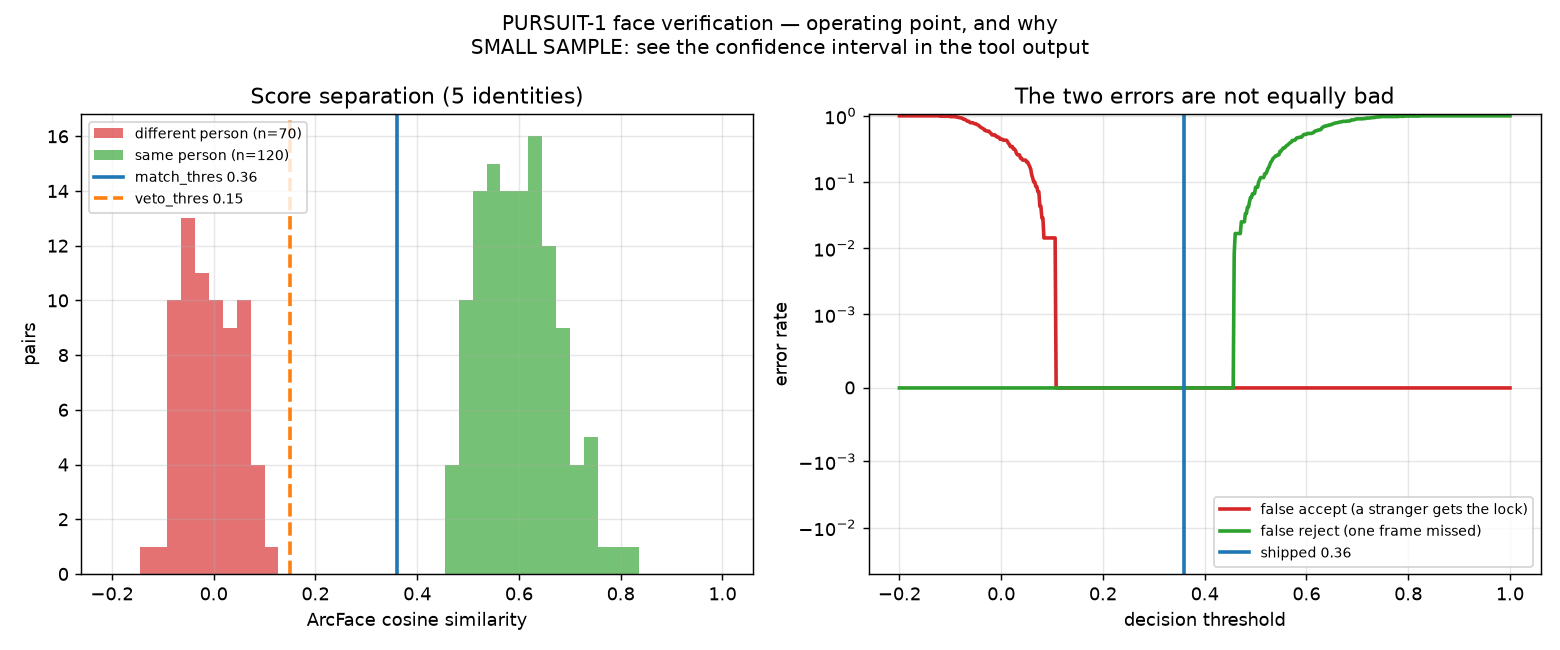
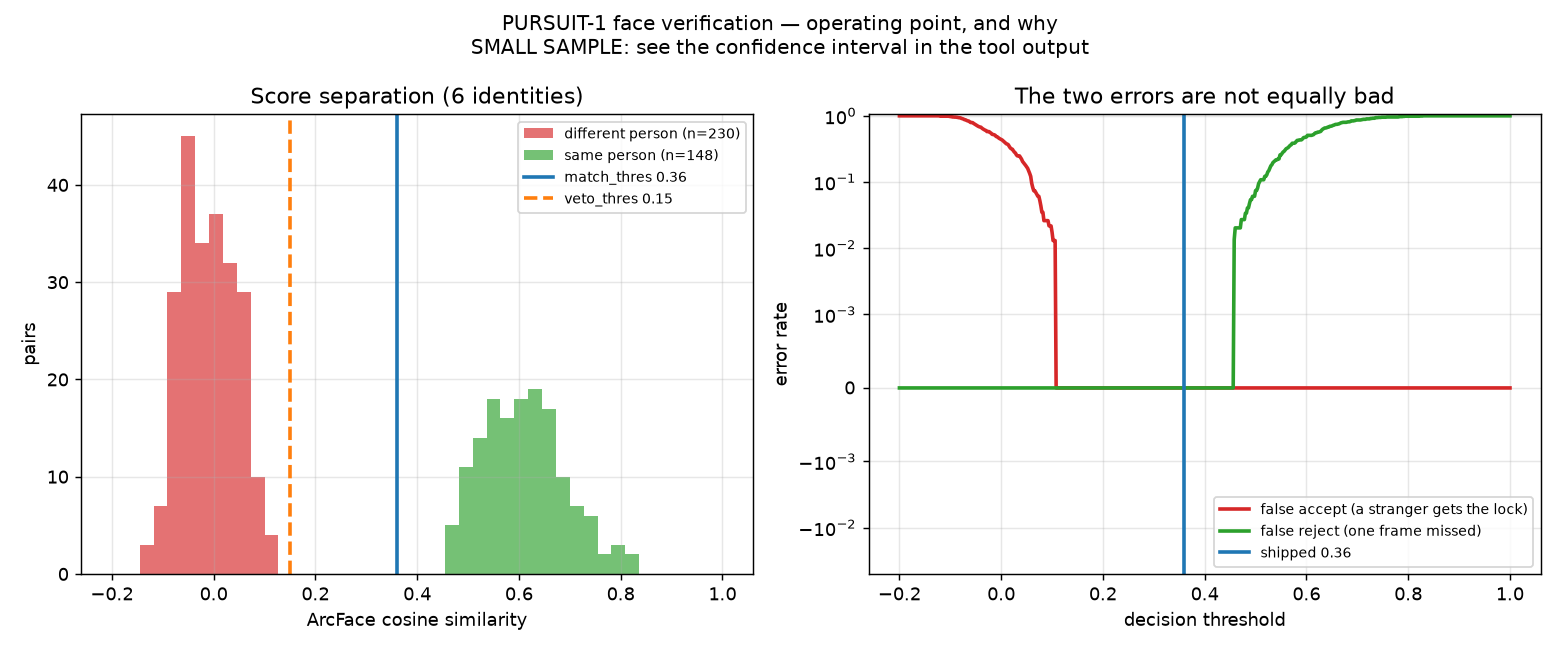
docs: put the ML work and the two-person result in the README
Both were done and neither was findable. All five ML figures existed on disk
and were referenced from nothing; the README still implied the two-person
discrimination test had never been run, which was true that morning.

Adds a machine-learning section with the three figures and the numbers that
matter: the identity-disjoint split and its 16.6-point contrast against an
image split, the head-to-head with pretrained ArcFace on identical pairs, and
the two ablations. Numbers are read from ml/runs/*.json at build time rather
than typed, so the prose cannot drift from the recorded runs.

Records the two-person verification next to the face-veto explanation it
supports: 400 frames, 98% locked, never lost, lock never transferred, face
confidence dipping to 0.73 under occlusion and recovering. Says plainly that
the test had not been run before and that the earlier gallery contained the
same person twice.

Also adds ml/ to the repository layout and the five figures to the media
manifest, with a note that verification_roc.png is the one figure that cannot
be regenerated from a clean clone, because it needs the enrolled gallery and
that is gitignored biometric data.

diff --git a/README.md b/README.md
@@ -138,6 +138,15 @@ within a minute. And a readable face scoring below 0.15 is treated as evidence
 between two people in similar clothing was sustained by appearance alone,
 indefinitely.
 
+**Verified on two real people, 2026-08-10.** 400 frames on a live webcam with a
+second person moving through frame, crossing in front, and remaining after the
+target left: **locked 98%** of frames (391/400, 5 coasting, 4 searching), never
+lost, and the lock never transferred. Face confidence dips to 0.73 during
+occlusion and recovers to 0.95 — body re-ID sustaining exactly as intended.
+That test had never been run until then, and it mattered: the second identity
+previously in the gallery turned out to be the same person as the first, so
+every earlier claim of discrimination had been resting on nothing.
+
 **The wire protocol is generated, not duplicated.** `vision/gen_protocol_header.py`
 emits `firmware/include/pursuit_link.h` from `vision/pursuit/protocol.py`, and CI
 regenerates and diffs it on every push. A cross-language test parses real
@@ -147,6 +156,63 @@ endianness can be right in one direction only, and a CRC computed over a
 different byte range is self-consistent within each language and rejects
 everything across the link. All three of those pass both test suites separately
 and fail on the first flight.
+
+---
+
+## The machine learning, and what it cost to skip it
+
+The identity layer runs ArcFace — 174 MB somebody else trained. That is the
+right call, and it was a call nobody had put a number on. So I trained one from
+scratch on real data and benchmarked both on the same protocol.
+
+**The data is real.** Labeled Faces in the Wild: 4,324
+photographs of 158 people, from news wire images. Not
+synthetic, not augmented from a handful of faces.
+
+**The protocol is the part that matters.** The split is by IDENTITY, not by
+image — 127 people to train on,
+31 held out and never seen. Splitting by image
+instead, which is what a flat `train_test_split` does, leaves the same faces on
+both sides:
+
+| | AUC | accuracy |
+|---|---|---|
+| **held-out identities** | 0.845 | **77.3%** |
+| identities seen in training | 0.984 | 93.9% |
+
+16.6 points of inflation, measured rather than asserted.
+
+![training](docs/media/ml_training.png)
+
+**Against the pretrained model, on identical pairs:** ArcFace scores
+96.4%, mine 77.3%. So
+136x the weights buys
+19 points. ArcFace is handicapped here
+by unaligned 62x47 crops — its published LFW figure is 99.8% — and the figure
+says so.
+
+![evaluation](docs/media/ml_evaluation.png)
+
+**The two plots that change a decision.** Accuracy is still climbing at 100% of
+the data (53.5% at 570 images →
+73.1% at 3720), so more data is the highest-value
+next move. Embedding width, sweeping 16 to 256, is flat inside run-to-run noise
+— so the 1.283 MB model is not width-limited, and on a 66 g aircraft
+the narrow version is free.
+
+![decisions](docs/media/ml_decisions.png)
+
+Every point is a training run from scratch. `ml/runs/` records each epoch, the
+split and the model, so the figures are traceable:
+
+```bash
+ml/.venv/bin/python ml/train_face_embed.py   # ~60 s on an M-series GPU
+ml/.venv/bin/python ml/ablations.py
+ml/.venv/bin/python ml/plot_all.py
+```
+
+Torch needs its own Python 3.11 environment — the vision stack runs 3.14, which
+has no torch wheels. That is why `ml/` is separate rather than inside `vision/`.
 
 ---
 
@@ -179,6 +245,12 @@ vision/         off-board perception and control, ONNX Runtime + CoreML
                   tests/          177 tests
                   tools/          e2e_loop.py, degradation_sweep.py
                   sim_drone.py    a fake aircraft for loopback testing
+
+ml/             training, on real data, in its own Python 3.11 venv
+                  train_face_embed.py  LFW, split by identity not by image
+                  ablations.py         data scaling + embedding width sweeps
+                  plot_all.py          twelve plots, four to a figure
+                  runs/                history.json, ablations.json, eval.npz
 
 sim/flight/     closed-loop plant model and the stability sweep above
 docs/           DESIGN.md, VERIFICATION.md, assembly SVGs, vendor/SOURCES.md

diff --git a/docs/media/README.md b/docs/media/README.md
@@ -21,7 +21,16 @@ useful way, but it is worth knowing which figures can lie to you.
 | File | Produced by | Shows |
 |---|---|---|
 | `lag_stability.png` | `python sim/flight/lag_sweep.py` | Transport-delay stability of the pitch cascade, with and without attitude compensation. The result the whole control design rests on. |
-| `verification_roc.png` | `python vision/tools/verify_eval.py` | Face-verification score separation and error rates at the shipped threshold. Needs an enrolled gallery, which is gitignored — so this one cannot be regenerated from a clean clone. |
+| `verification_roc.png` | `python vision/tools/verify_eval.py` | Score separation and error rates at the shipped threshold, on the real enrolled gallery. Needs that gallery, which is gitignored as biometric data — so this one alone cannot be regenerated from a clean clone. |
+| `ml_training.png` | `ml/plot_all.py` | Loss, identity accuracy, LR schedule, generalisation gap. |
+| `ml_evaluation.png` | `ml/plot_all.py` | Score separation, ROC, DET, threshold sweep. |
+| `ml_decisions.png` | `ml/plot_all.py` | Data scaling, embedding width, size vs accuracy, calibration. The three ablation panels are each a training run from scratch. |
+| `training_curves.png` | `ml/plot_training.py` | The standalone loss and accuracy pair. |
+| `verification_bench.png` | `ml/plot_training.py` | ROC against pretrained ArcFace, and size vs accuracy. |
+
+All five ML figures regenerate from `ml/runs/` — `history.json`, `ablations.json`,
+`eval.npz` and `arcface.json` hold every recorded number. They need the `ml/.venv`
+(Python 3.11 + torch), not the vision venv.
 
 ## Authored — Figma is the master
 
